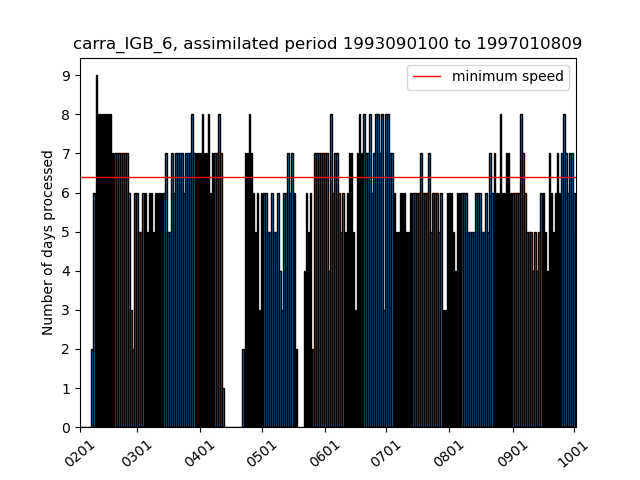
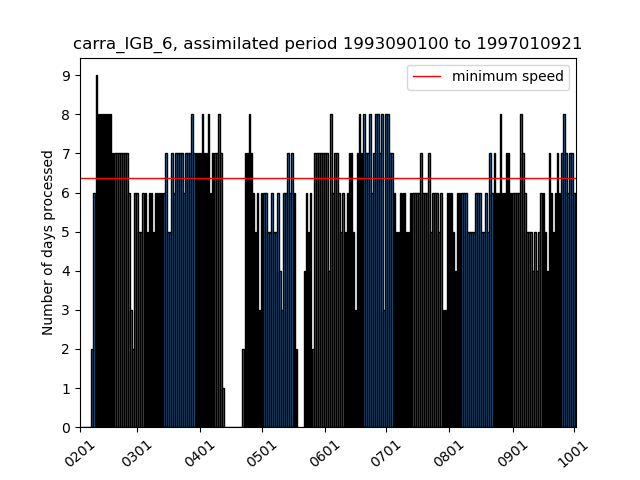
update repo

Changed region(s): [[0.125, 0.3438, 0.9062, 0.375], [0.8438, 0.0625, 0.9062, 0.125]]

diff --git a/current_state_sims.html b/current_state_sims.html
@@ -2,18 +2,18 @@
 <h1>Estimated completion dates and simulation speeds</h1>
 <p>Stream (production) completion date based on 30d (7d) moving avg speed</p>
 <p><a href="https://docs.google.com/document/d/1zDKAxuEXYnWWYzT3SZnZwY5WW8nodUMeYRjAGz46coc/edit#">Details of the calculation of the completion dates</a></p>
-<p>Last update: 2021/10/03 00:38:25 UTC</p>
+<p>Last update: 2021/10/03 06:41:56 UTC</p>
 <p>Total progress CARRA: 99.44% <a href="https://hirlam.org/portal/CARRA/Progress/GanntChart_CARRA.html"> (see detailed progress meter in Gantt chart) </a></p>
 <p>Total progress PANARCTIC: 91.67% </p>
 <p><a href="https://hirlam.org/portal/CARRA/Progress/waiting_times.html"> Queue waiting times for all streams</a></p>
 <p><a href="https://hirlam.org/portal/CARRA/Progress/mars_status.html"> MARS archive throughput </a></p>
 <html><table border="1"><tr><th>expId</th><th>Current assimilated date</th><th>End date of stream </th><th> Completion date</th><th> Avg. throughput (7d) </th> <th>Avg. throughput (30d) </th> <th> Remarks</tr>
-<tr bgcolor="#FFFF00"><td>carra_NE_3</td><td>2021063000</td><td>2021063021</td><td>2021100300</td><td>(0.0) days/day</td><td>(3.5) days/day</td><td>Inactive the past week</tr>
+<tr bgcolor="#FFFF00"><td>carra_NE_3</td><td>2021063000</td><td>2021063021</td><td>2021100306</td><td>(0.0) days/day</td><td>(3.5) days/day</td><td>Inactive the past week</tr>
 <tr bgcolor="#33FF38"><td>carra_NE_4</td><td>1992090100</td><td>1992083021</td><td>Finished on 20210824</td><td>(0.0) days/day</td><td>(0.0) days/day</td><td>Stream finished</tr>
 <tr bgcolor="#33FF38"><td>carra_NE_5</td><td>1994090100</td><td>1994083021</td><td>Finished on 20210824</td><td>(0.0) days/day</td><td>(0.0) days/day</td><td>Stream finished</tr>
-<tr bgcolor="#33FF38"><td>carra_NE_6</td><td>1997070100</td><td>1997063021</td><td>2021100216</td><td>(0.0) days/day</td><td>(2.83) days/day</td><td>Stream finished</tr>
-<tr bgcolor="#FFFF00"><td>carra_IGB_3</td><td>2021063000</td><td>2021063021</td><td>2021100300</td><td>(0.0) days/day</td><td>(3.37) days/day</td><td>Inactive the past week</tr>
-<tr bgcolor="#33FF38"><td>carra_IGB_4</td><td>1992090100</td><td>1992083021</td><td>2021093021</td><td>(0.0) days/day</td><td>(0.93) days/day</td><td>Stream finished</tr>
-<tr bgcolor="#33FF38"><td>carra_IGB_5</td><td>1994090100</td><td>1994083021</td><td>2021100213</td><td>(0.0) days/day</td><td>(4.4) days/day</td><td>Stream finished</tr>
-<tr bgcolor="#FFA500"><td>carra_IGB_6</td><td>1997010809</td><td>1997063021</td><td>2021110108</td><td>(6.57) days/day</td><td>(5.9) days/day</td><td>Completion date after project end (20211031)</tr>
-<tr bgcolor="#FFFFFF"><td>carra_pan</td><td>2018081700</td><td>2018090100</td><td>2021100711</td><td>(3.57) days/day</td><td>(3.37) days/day</td><td></tr>
+<tr bgcolor="#33FF38"><td>carra_NE_6</td><td>1997070100</td><td>1997063021</td><td>2021100222</td><td>(0.0) days/day</td><td>(2.83) days/day</td><td>Stream finished</tr>
+<tr bgcolor="#FFFF00"><td>carra_IGB_3</td><td>2021063000</td><td>2021063021</td><td>2021100306</td><td>(0.0) days/day</td><td>(3.37) days/day</td><td>Inactive the past week</tr>
+<tr bgcolor="#33FF38"><td>carra_IGB_4</td><td>1992090100</td><td>1992083021</td><td>2021100103</td><td>(0.0) days/day</td><td>(0.93) days/day</td><td>Stream finished</tr>
+<tr bgcolor="#33FF38"><td>carra_IGB_5</td><td>1994090100</td><td>1994083021</td><td>2021100219</td><td>(0.0) days/day</td><td>(4.4) days/day</td><td>Stream finished</tr>
+<tr bgcolor="#FFA500"><td>carra_IGB_6</td><td>1997010921</td><td>1997063021</td><td>2021110106</td><td>(6.71) days/day</td><td>(5.93) days/day</td><td>Completion date after project end (20211031)</tr>
+<tr bgcolor="#FFFFFF"><td>carra_pan</td><td>2018081718</td><td>2018090100</td><td>2021100716</td><td>(3.71) days/day</td><td>(3.4) days/day</td><td></tr>
